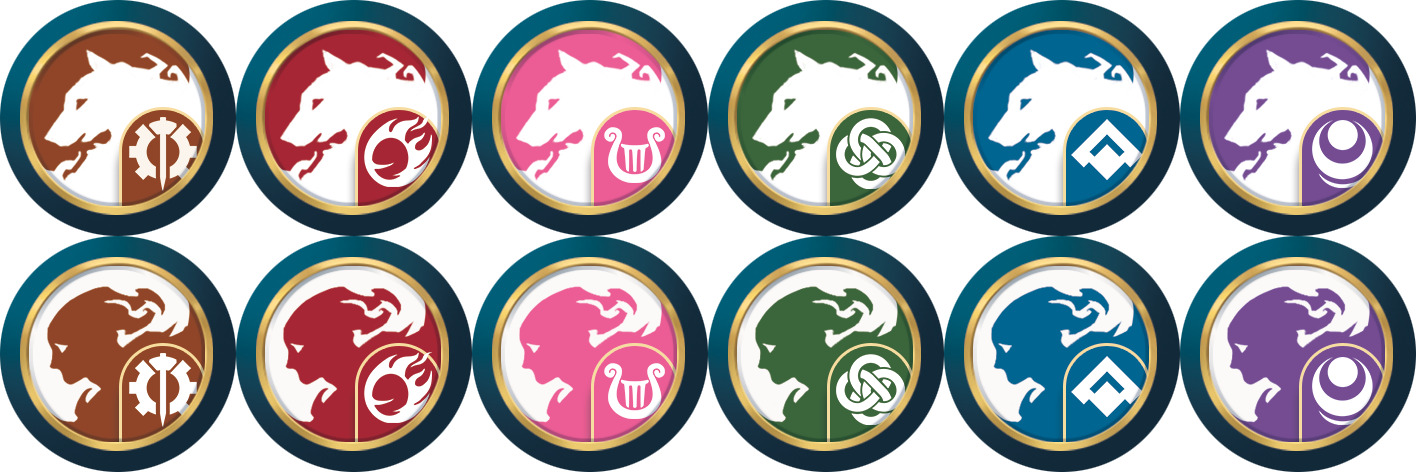
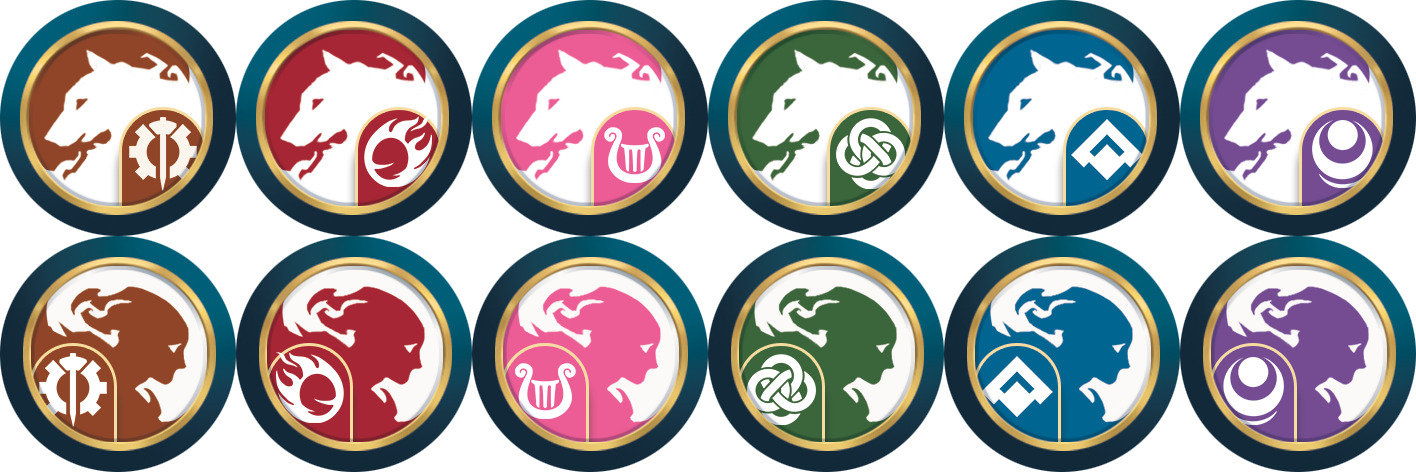
Update storm and hero tokens + better merge script

Changed region(s): [[0.0, 0.5042, 1.0, 0.9788]]

diff --git a/modules/css/layout.scss b/modules/css/layout.scss
@@ -1,11 +1,11 @@
-#topbar {
-    margin-top: -66px;
-    transition: margin 0.5s;
+// #topbar {
+//     margin-top: -66px;
+//     transition: margin 0.5s;
 
-    &.visible {
-        margin-top: 0px;
-    }
-}
+//     &.visible {
+//         margin-top: 0px;
+//     }
+// }
 #game_play_area {
     margin-top: 0px;
 }

diff --git a/altered.css b/altered.css
@@ -2018,12 +2018,6 @@ html {
   line-height: 38px;
   font-size: 30px; }
 
-#topbar {
-  margin-top: -66px;
-  transition: margin 0.5s; }
-  #topbar.visible {
-    margin-top: 0px; }
-
 #game_play_area {
   margin-top: 0px; }
 

diff --git a/misc/merge.php b/misc/merge.php
@@ -61,17 +61,19 @@ foreach (ALL_CARDS as $cardId) {
   $oldFile = file_get_contents($sourceOld . $cardId . '.php');
   //	echo $oldFile;
 
+
   foreach ($attributes as $attr) {
-    //    echo "#################\n" . $attr . "\n";
-    preg_match('/\'' . $attr . '\' => ((\s|.)+?),\n/', $newFile, $matches);
+//        echo "#################\n" . $attr . "\n";
+//    preg_match('/\'' . $attr . '\' => ((clienttranslate\(\n?)?(\s|.)+?(\n\s+\))?),\n/', $newFile, $matches);
+    preg_match('/\'' . $attr . '\' =>( |(\n\s+))((\s|.)+?),\n/', $newFile, $matches);
 
     if (!empty($matches)) {
-      $newValue = $matches[1];
-      //      echo $newValue . "\n";
+      $newValue = $matches[3];
+//            echo $newValue . "\n";
 
-      preg_match('/(\'' . $attr . '\' => )((\s|.)+?),\n/', $oldFile, $matches);
+      preg_match('/(\'' . $attr . '\' => )((\s|.|\n)+?),( ?)\n/', $oldFile, $matches);
       if (!empty($matches)) {
-        $oldFile = preg_replace('/(\'' . $attr . '\' => )((\s|.)+?),\n/', '${1}' . $newValue . ",\n", $oldFile);
+        $oldFile = preg_replace('/(\'' . $attr . '\' => )((\s|.)+?),( ?)\n/', '${1}' . $newValue . ",\n", $oldFile);
       } else {
         echo 'missing';
         $oldFile = preg_replace('/\];/', "'$attr' => $newValue, \n];", $oldFile);

diff --git a/modules/php/Cards/AX/AX_Common_KelonCylinder.php b/modules/php/Cards/AX/AX_Common_KelonCylinder.php
@@ -18,9 +18,8 @@ class AX_Common_KelonCylinder extends \ALT\Models\Card
       'name' => 'Kelon Cylinder',
       'type' => PERMANENT,
       'subtypes' => [LANDMARK],
-      'effectDesc' => clienttranslate(
-        '{T} : I gain two Kelon counters.  {T}, Spend one of my Kelon counters: the next Character you play this turn gains 1 boost$[BB].'
-      ),
+      'effectDesc' =>
+        '{T} : I gain two Kelon counters.  {T}, Spend one of my Kelon counters: the next Character you play this turn gains 1 boost$[BB].',
       'costHand' => 1,
       'costReserve' => 1,
 
@@ -35,9 +34,8 @@ class AX_Common_KelonCylinder extends \ALT\Models\Card
         )
       ),
       'extraDatas' => ['counter' => 3],
-      'flavorText' => clienttranslate(
-        'This little battery is Axiom\'s trump card. The Kelon produces phenomenal energy, for which engineers find new applications every day.'
-      ),
+      'flavorText' =>
+        "This little battery is Axiom\'s trump card. The Kelon produces phenomenal energy for which engineers find new applications every day.",
       'typeline' => 'Permanent - Landmark',
       'artist' => 'Anh Tung',
     ];

diff --git a/modules/php/Cards/LY/LY_Common_LyraFestival.php b/modules/php/Cards/LY/LY_Common_LyraFestival.php
@@ -18,9 +18,8 @@ class LY_Common_LyraFestival extends \ALT\Models\Card
       'name' => 'Lyra Festival',
       'type' => PERMANENT,
       'subtypes' => [LANDMARK],
-      'effectDesc' => clienttranslate(
-        '{J} Draw a card.  At Dusk — If you control a [FLEETING] Character, another [ANCHORED] Character and yet another [ASLEEP] Character, you win the game.'
-      ),
+      'effectDesc' =>
+        '{J} Draw a card.  At Dusk, if you control a [FLEETING] Character, another [ANCHORED] Character and yet another [ASLEEP] Character — You win the game.',
       'costHand' => 4,
       'costReserve' => 4,
       'effectPlayed' => FT::ACTION(DRAW, ['players' => ME]),
@@ -32,6 +31,8 @@ class LY_Common_LyraFestival extends \ALT\Models\Card
       ],
       'typeline' => 'Permanent - Landmark',
       'artist' => 'Fahmi Fauzi',
+      'flavorText' =>
+        'When the time of the Kalann Mae comes, the Lyra all feel the call to a single place, where they will bring a masterpiece to life.',
     ];
   }
 }

diff --git a/modules/php/Cards/LY/LY_Common_TheHatter.php b/modules/php/Cards/LY/LY_Common_TheHatter.php
@@ -19,9 +19,8 @@ class LY_Common_TheHatter extends \ALT\Models\Card
       'type' => CHARACTER,
       'subtypes' => [CITIZEN],
       'effectDesc' => clienttranslate('(*He can\'t swim.*)'),
-      'supportDesc' => clienttranslate(
-        '{D} : Target Character with Hand Cost {3} or less gains [ANCHORED]. (Discard me from Reserve to do this.)'
-      ),
+      'supportDesc' =>
+        '{D} : Target Character with Hand Cost {3} or less gains [ANCHORED]. (Discard me from Reserve to do this.)',
       'forest' => 5,
       'mountain' => 5,
       'ocean' => 0,
@@ -30,6 +29,8 @@ class LY_Common_TheHatter extends \ALT\Models\Card
       'effectSupport' => FT::ACTION(TARGET, ['maxHandCost' => 3, 'effect' => FT::GAIN($this, ANCHORED)]),
       'typeline' => 'Character - Citizen',
       'artist' => 'Zero Wen',
+      'flavorText' =>
+        "\"You can draw water out of a water-well, so I should think you could draw treacle out of a treacle-well — eh, stupid ?\"",
     ];
   }
 }

diff --git a/modules/php/Cards/LY/LY_Common_TheSandman.php b/modules/php/Cards/LY/LY_Common_TheSandman.php
@@ -19,7 +19,8 @@ class LY_Common_TheSandman extends \ALT\Models\Card
       'typeline' => 'Character - Artist',
       'type' => CHARACTER,
       'subtypes' => [ARTIST],
-      'effectDesc' => clienttranslate('{H} Up to one target Character gains $[ASLEEP].'),
+      'effectDesc' =>
+        '{H} Up to one target Character gains [ASLEEP]. (During Dusk, ignore its statistics. During Rest, it doesn\'t go to Reserve and it loses Asleep.)',
       'forest' => 0,
       'mountain' => 3,
       'ocean' => 3,
@@ -28,6 +29,8 @@ class LY_Common_TheSandman extends \ALT\Models\Card
 
       'effectHand' => FT::ACTION(TARGET, ['upTo' => true, 'effect' => FT::GAIN(EFFECT, ASLEEP)]),
       'artist' => 'Nestor Papatriantafyllou',
+      'flavorText' =>
+        "\"Sand gives you a taste of what life is all about. Come morning, the castles you have built will be gone with the tide.\"",
     ];
   }
 }

diff --git a/modules/php/Cards/AX/AX_Common_SubhashMarmo.php b/modules/php/Cards/AX/AX_Common_SubhashMarmo.php
@@ -18,9 +18,8 @@ class AX_Common_SubhashMarmo extends \ALT\Models\Card
       'name' => 'Subhash & Marmo',
       'type' => HERO,
       'typeline' => 'Hero',
-      'effectDesc' => clienttranslate(
-        'At Noon — You may pay {1} and put a card from your hand in Reserve to create a [BRASSBUG] Robot token in target Expedition.'
-      ),
+      'effectDesc' =>
+        'At Noon — You may pay {1} and put a card from your hand in Reserve to create a [BRASSBUG] Robot token in target Expedition.',
 
       'reserveSlots' => 2,
       'landmarkSlots' => 2,
@@ -45,6 +44,8 @@ class AX_Common_SubhashMarmo extends \ALT\Models\Card
         ],
       ],
       'artist' => 'Taras Susak',
+      'flavorText' =>
+        "There are still endless possibilities, even in a world of finite resources. In the end, it all comes down to how you choose to spend \'em.",
     ];
   }
 }

diff --git a/modules/php/Cards/LY/LY_Common_MindApotheosis.php b/modules/php/Cards/LY/LY_Common_MindApotheosis.php
@@ -18,9 +18,8 @@ class LY_Common_MindApotheosis extends \ALT\Models\Card
       'name' => 'Mind Apotheosis',
       'type' => SPELL,
       'subtypes' => [CONJURATION],
-      'effectDesc' => clienttranslate(
-        '$[FLEETING].  Reveal the top four cards of your Deck. Choose up to two Characters from these cards and put them in your Expeditions. They gain [FLEETING]. Discard the other cards. (Don\'t activate any {h} triggers.)'
-      ),
+      'effectDesc' =>
+        '$[FLEETING].  Reveal the top four cards of your Deck. Choose up to two Characters from these cards and put them in your Expeditions. They gain [FLEETING]. Discard the other cards. (Don\'t activate any {h} triggers.)',
       'costHand' => 9,
       'costReserve' => 9,
       'effectPlayed' => FT::SEQ(FT::GAIN($this, FLEETING), FT::ACTION(SPECIAL_EFFECT, ['effect' => 'MindApotheosis'])),

diff --git a/modules/php/Cards/BR/BR_Common_AtsadiSurge.php b/modules/php/Cards/BR/BR_Common_AtsadiSurge.php
@@ -18,9 +18,8 @@ class BR_Common_AtsadiSurge extends \ALT\Models\Card
       'name' => 'Atsadi & Surge',
       'type' => HERO,
       'typeline' => 'Hero',
-      'effectDesc' => clienttranslate(
-        'I begin the game with five Heroism counters.  When you play a Character with Hand Cost greater than or equal to my number of Heroism counters — Draw a card and I gain a Heroism counter.'
-      ),
+      'effectDesc' =>
+        'I begin the game with five Heroism counters.  When you play a Character with Hand Cost greater than or equal to my number of Heroism counters — Draw a card and I gain a Heroism counter.',
 
       'reserveSlots' => 2,
       'landmarkSlots' => 2,

diff --git a/modules/php/Cards/AX/AX_Common_Hooked.php b/modules/php/Cards/AX/AX_Common_Hooked.php
@@ -18,9 +18,8 @@ class AX_Common_Hooked extends \ALT\Models\Card
       'name' => 'Hooked',
       'type' => SPELL,
       'subtypes' => [MANEUVER],
-      'effectDesc' => clienttranslate(
-        'Target Character switches Expeditions. (It leaves its Expedition and joins its controller\'s other Expedition.)'
-      ),
+      'effectDesc' =>
+        'Target Character switches Expeditions. (It leaves its Expedition and joins its controller\'s other Expedition.)',
       'costHand' => 1,
       'costReserve' => 2,
       'effectPlayed' => FT::ACTION(TARGET, ['targetType' => [CHARACTER, TOKEN], 'effect' => FT::ACTION(MOVE_CARD, [])]),

diff --git a/modules/php/Cards/BR/BR_Common_KaibaraAsgarthanLeviathan.php b/modules/php/Cards/BR/BR_Common_KaibaraAsgarthanLeviathan.php
@@ -16,9 +16,8 @@ class BR_Common_KaibaraAsgarthanLeviathan extends \ALT\Models\Card
       'name' => 'Kaibara, Asgarthan Leviathan',
       'type' => CHARACTER,
       'subtypes' => [LEVIATHAN],
-      'effectDesc' => clienttranslate(
-        '$[GIGANTIC].  $[TOUGH_X], where X is the numbers of regions between your Hero and Companion. (If they are adjacent, X equals 0.)'
-      ),
+      'effectDesc' =>
+        '$[GIGANTIC].  $[TOUGH_X], where X is the numbers of regions between your Hero and Companion. (If they are adjacent, X equals 0.)',
       'forest' => 6,
       'mountain' => 6,
       'ocean' => 6,
